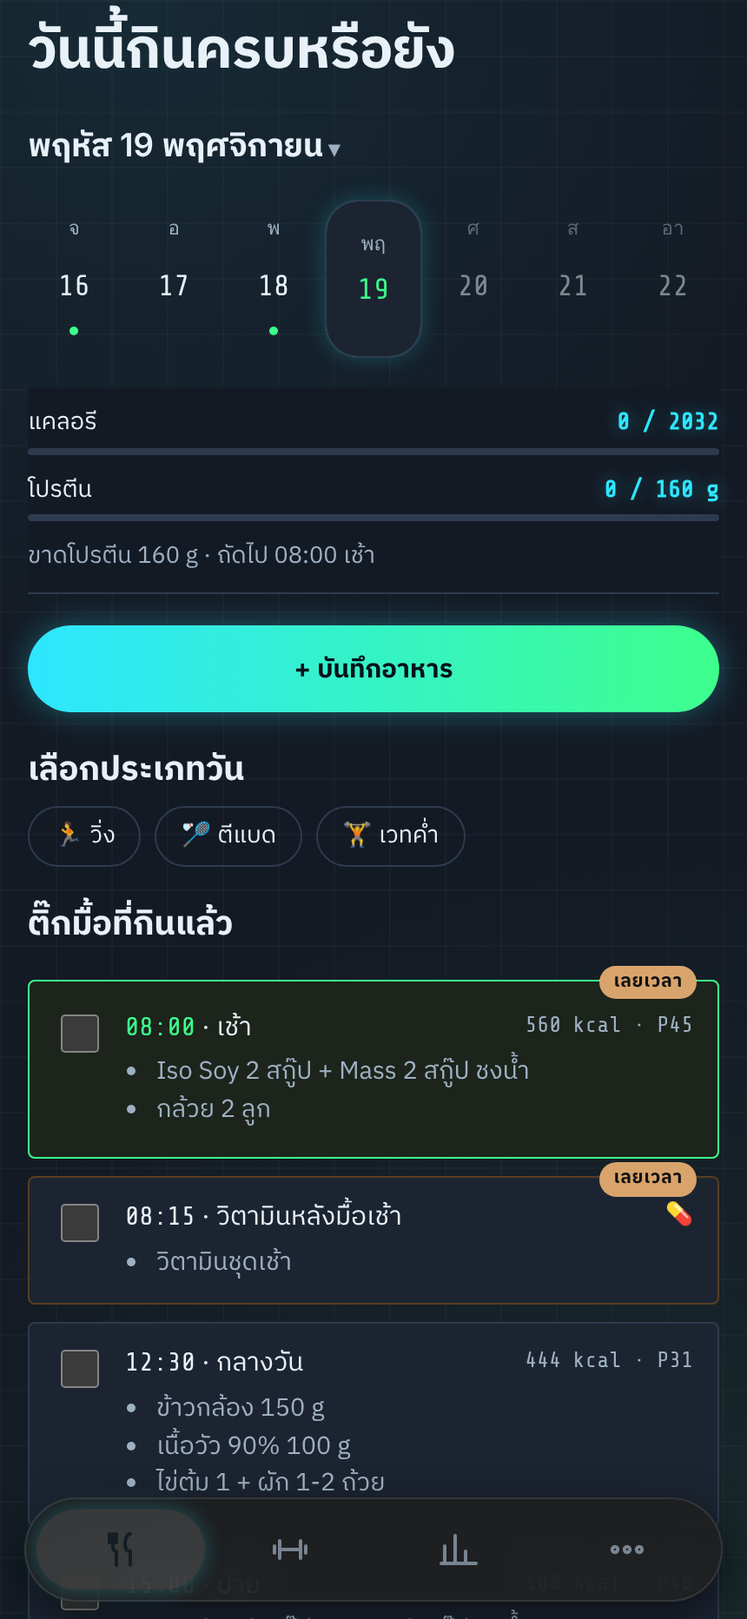
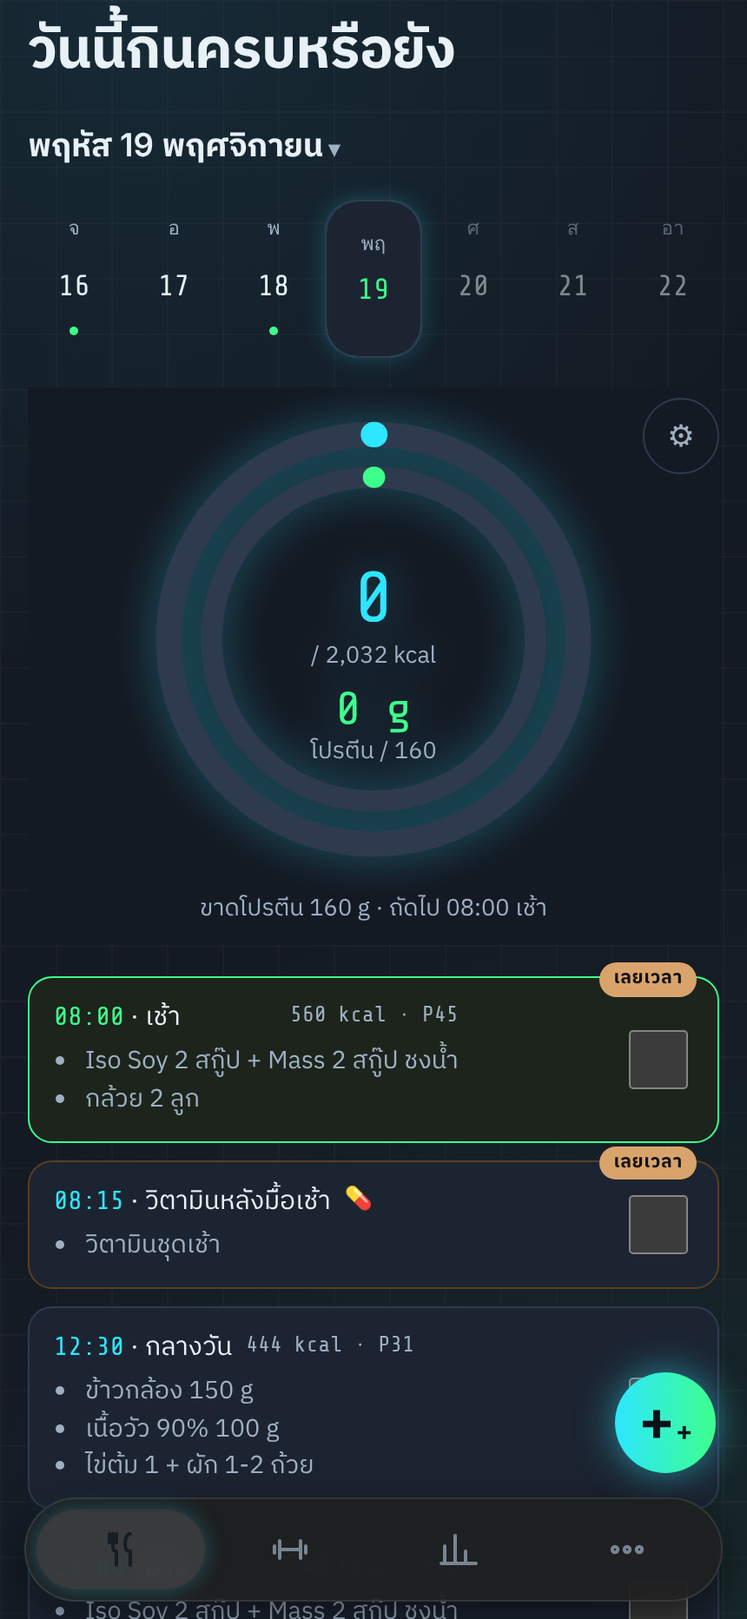
Neon theme + layout: food rings, one-exercise training with rest ring, HUD place cards, big recovery figure
Claude-Session: https://claude.ai/code/session_01TA1QFkMVywvGJMZnY2b9UN

diff --git a/public/js/stats-extra.js b/public/js/stats-extra.js
@@ -18,13 +18,13 @@ function renderVolume(){const box=document.getElementById("vol-card");if(!box)re
   box.innerHTML=`<div class="chips seg">${[["1w","1 สัปดาห์"],["1m","1 เดือน"],["6m","6 เดือน"],["1y","1 ปี"]].map(([k,l])=>`<button class="chip" data-vr="${k}" aria-pressed="${k===volRange}">${t(l)}</button>`).join("")}</div>
     <div class="vol-h"><small>${t("เฉลี่ยต่อวัน")}</small><b>${Math.round(tot/days).toLocaleString()} <small>kg</small></b></div>
     <svg viewBox="0 0 ${W} ${H+18}" width="100%" role="img" aria-label="volume">${b.map((x,i)=>{const h=x.v?Math.max(4,x.v/mx*H):3,X=i*(bw+gap);
-      return `<rect x="${X.toFixed(1)}" y="${(H-h).toFixed(1)}" width="${bw.toFixed(1)}" height="${h.toFixed(1)}" rx="${Math.min(4,bw/2)}" fill="${x.v?"var(--series,#4f93f5)":"var(--line)"}"><title>${Math.round(x.v)} kg</title></rect>${x.lab?`<text x="${(X+bw/2).toFixed(1)}" y="${H+14}" text-anchor="middle" fill="var(--muted)" font-size="10" font-family="var(--f-num)">${x.lab}</text>`:""}`}).join("")}</svg>
+      return `<rect x="${X.toFixed(1)}" y="${(H-h).toFixed(1)}" width="${bw.toFixed(1)}" height="${h.toFixed(1)}" rx="${Math.min(4,bw/2)}" fill="${x.v?"var(--series,#2ee6ff)":"var(--line)"}"><title>${Math.round(x.v)} kg</title></rect>${x.lab?`<text x="${(X+bw/2).toFixed(1)}" y="${H+14}" text-anchor="middle" fill="var(--muted)" font-size="10" font-family="var(--f-num)">${x.lab}</text>`:""}`}).join("")}</svg>
     <div class="row-head vol-f"><span>${t("รวม")}</span><b>${Math.round(tot).toLocaleString()} kg</b></div>`;
   box.querySelectorAll("[data-vr]").forEach(c=>c.addEventListener("click",()=>{volRange=c.dataset.vr;renderVolume()}))}
 function renderMuscleSets(){const box=document.getElementById("mset-card");if(!box)return;const today=ds2d(TODAY),mon=dkey(addD(today,-((today.getDay()+6)%7)));const n={};
   logs.filter(l=>l.date>=mon&&l.date<=TODAY).forEach(l=>Object.entries(l.ex).forEach(([id,s])=>{const g=groupOf(exOf(id,l));n[g]=(n[g]||0)+s.length}));
   box.innerHTML=`<div class="rings">${Object.entries(SET_TARGET).map(([g,tg])=>{const v=n[g]||0,f=Math.min(1,v/tg),r=26,C=2*Math.PI*r;
-    return `<div class="ring"><svg viewBox="0 0 64 64" width="64" height="64"><circle cx="32" cy="32" r="${r}" fill="none" stroke="var(--line)" stroke-width="6"/><circle cx="32" cy="32" r="${r}" fill="none" stroke="${v>=tg?"var(--up)":"var(--series,#4f93f5)"}" stroke-width="6" stroke-linecap="round" stroke-dasharray="${(C*f).toFixed(1)} ${C.toFixed(1)}" transform="rotate(-90 32 32)"/></svg><span class="ring-fig">${bodySVG(GROUP_MUS[g]||[],[],36)}</span><b>${groupName(g)}</b><small>${v} / ${nU(tg,"เซ็ต")}</small></div>`}).join("")}</div>`}
+    return `<div class="ring"><svg viewBox="0 0 64 64" width="64" height="64"><circle cx="32" cy="32" r="${r}" fill="none" stroke="var(--line)" stroke-width="6"/><circle cx="32" cy="32" r="${r}" fill="none" stroke="${v>=tg?"var(--up)":"var(--series,#2ee6ff)"}" stroke-width="6" stroke-linecap="round" stroke-dasharray="${(C*f).toFixed(1)} ${C.toFixed(1)}" transform="rotate(-90 32 32)"/></svg><span class="ring-fig">${bodySVG(GROUP_MUS[g]||[],[],36)}</span><b>${groupName(g)}</b><small>${v} / ${nU(tg,"เซ็ต")}</small></div>`}).join("")}</div>`}
 function renderPRs(){const box=document.getElementById("pr-card");if(!box)return;const e1=s=>Math.max(...s.map(q=>(+q.kg||0)*(1+(+q.reps||0)/30)));
   const cut=dkey(addD(ds2d(TODAY),-30)),rows=[];
   HEAVY.forEach(id=>{const h=logs.filter(l=>l.ex[id]&&l.ex[id].length&&logLoc(l)===curLoc);if(!h.length)return;const recent=h.filter(l=>l.date>=cut),old=h.filter(l=>l.date<cut);
@@ -34,7 +34,7 @@ function renderPRs(){const box=document.getElementById("pr-card");if(!box)return
   box.innerHTML=rows.length?rows.slice(0,5).map(r=>{const x={id:r.id,n:r.n};return `<div class="sx-row"><span class="sx-mini">${bodySVG(...musOf(x),44)}</span><span><b>${esc(r.n)}</b><small>${nU(r.sets,"เซ็ต")}${r.d!=null?` · ${t("เทียบ 30 วันก่อน")} <i class="${Math.round(r.d)>0?"up":Math.round(r.d)<0?"dn":""}">${Math.round(r.d)>0?"▲ ":Math.round(r.d)<0?"▼ ":"= "}${Math.abs(Math.round(r.d))} kg</i>`:""}</small></span>${howBtn(x)}<b class="pr-v">${Math.round(r.now)}<small> kg</small></b></div>`}).join(""):emptyBox("bar","ยังไม่มีข้อมูลการฝึก")}
 let renderBody;renderBody=function(){const box=document.getElementById("body-card");if(!box)return;const L=BODY.slice().sort((a,b)=>a.d.localeCompare(b.d)),last=L[L.length-1],first=L[0];
   let chart="";if(L.length>1){const W=300,H=70,v=L.map(x=>x.kg),lo=Math.min(...v),hi=Math.max(...v),sp=hi-lo||1,X=i=>i/(L.length-1)*W,Y=k=>H-(k-lo)/sp*(H-10)-5;
-    chart=`<svg viewBox="0 0 ${W} ${H}" width="100%" height="${H}"><path d="${L.map((x,i)=>(i?"L":"M")+X(i).toFixed(1)+" "+Y(x.kg).toFixed(1)).join(" ")}" fill="none" stroke="var(--series,#4f93f5)" stroke-width="2.5" stroke-linejoin="round"/>${L.map((x,i)=>`<circle cx="${X(i).toFixed(1)}" cy="${Y(x.kg).toFixed(1)}" r="3.5" fill="var(--series,#4f93f5)"/>`).join("")}</svg>`}
+    chart=`<svg viewBox="0 0 ${W} ${H}" width="100%" height="${H}"><path d="${L.map((x,i)=>(i?"L":"M")+X(i).toFixed(1)+" "+Y(x.kg).toFixed(1)).join(" ")}" fill="none" stroke="var(--series,#2ee6ff)" stroke-width="2.5" stroke-linejoin="round"/>${L.map((x,i)=>`<circle cx="${X(i).toFixed(1)}" cy="${Y(x.kg).toFixed(1)}" r="3.5" fill="var(--series,#2ee6ff)"/>`).join("")}</svg>`}
   box.innerHTML=`<div class="row-head" style="align-items:center"><span class="vol-h"><small>${last?thDate(last.d,{day:"numeric",month:"short"}):t("ยังไม่มีบันทึก")}</small><b>${last?last.kg:"–"} <small>kg</small>${last&&first&&L.length>1?` <i class="${last.kg<=first.kg?"up":"dn"}" style="font-style:normal;font-size:.8rem">${last.kg-first.kg>0?"+":""}${(last.kg-first.kg).toFixed(1)}</i>`:""}</b></span>
     <input id="bw-in" type="number" readonly inputmode="none" data-pad="bw" value="${last?last.kg:""}" aria-label="${t("น้ำหนักตัว")}" hidden><button class="btn sm primary" id="bw-add">+ ${t("บันทึกน้ำหนัก")}</button></div>${chart}`;
   box.querySelector("#bw-add").addEventListener("click",()=>{PAD.bw=PAD.bw||{steps:[.1,.5,1,5],def:70,fix:1};openPad(box.querySelector("#bw-in"))});
@@ -68,7 +68,7 @@ function renderRecovery(){const box=document.getElementById("rec-card");if(!box)
   const lab=m=>{const o=R[m];return !o?"–":o.pct+"%"},sub=m=>{const o=R[m];return !o?t("ยังไม่เคย"):o.days>NEGLECT?nU(o.days,"วันก่อน"):""};
   const due=REC_ORDER.filter(m=>{const s=state(ago(m));return s===0||s===4});
   const tiles=REC_ORDER.map(m=>{const o=R[m],s=state(o),w=!o?0:s===4?100:o.pct;return `<button class="rec-t s${s}" data-m="${m}"><b>${t(MUS_NAME[m])}</b><span class="rec-p">${lab(m)}</span><small class="rec-sub">${sub(m)||"&nbsp;"}</small><i class="rec-bar"><i style="width:${w}%;background:${REC_C[s]}"></i></i></button>`}).join("");
-  box.innerHTML=`<div class="rec-fig">${bodySVG([],[],170,m=>REC_C[state(ago(m))])}</div>
+  box.innerHTML=`<div class="rec-fig">${bodySVG([],[],320,m=>REC_C[state(ago(m))])}</div>
     <div class="rec-grid">${tiles}</div>
     <div class="rec-leg">${[[1,"< 40%"],[2,"กำลังฟื้น"],[3,"พร้อม"],[0,"ยังไม่เคยเล่น"]].map(([k,l])=>`<span><i style="background:${REC_C[k]}"></i>${t(l)}</span>`).join("")}</div>`}
 /* ---------- generic bottom sheet ---------- */
@@ -106,8 +106,8 @@ renderBody=function(){const box=document.getElementById("body-card");if(!box)ret
     const goal=bodyMetric==="kg"&&bodyGoal?`<line x1="${PL}" x2="${W}" y1="${Y(bodyGoal)}" y2="${Y(bodyGoal)}" stroke="var(--up)" stroke-dasharray="4 4"/><text x="${W-2}" y="${Y(bodyGoal)-4}" text-anchor="end" font-size="9" fill="var(--up)">${t("เป้าหมาย")} ${bodyGoal}</text>`:"";
     const path=P.map((q,i)=>(i?"L":"M")+X(q).toFixed(1)+" "+Y(q[bodyMetric]).toFixed(1)).join(" ");
     const area=P.length>1?`<path d="${path} L${X(P[P.length-1]).toFixed(1)} ${H-PB} L${X(P[0]).toFixed(1)} ${H-PB}Z" fill="url(#bg)" />`:"";
-    chart=`<svg viewBox="0 0 ${W} ${H}" width="100%" role="img" aria-label="trend"><defs><linearGradient id="bg" x1="0" x2="0" y1="0" y2="1"><stop offset="0" stop-color="#4f93f5" stop-opacity=".35"/><stop offset="1" stop-color="#4f93f5" stop-opacity="0"/></linearGradient></defs>${ticks}${goal}${area}
-      <path d="${path}" fill="none" stroke="var(--series,#4f93f5)" stroke-width="2.5" stroke-linejoin="round"/>${P.map(q=>`<circle cx="${X(q).toFixed(1)}" cy="${Y(q[bodyMetric]).toFixed(1)}" r="3.5" fill="var(--series,#4f93f5)"><title>${q.d}: ${q[bodyMetric]}</title></circle>`).join("")}
+    chart=`<svg viewBox="0 0 ${W} ${H}" width="100%" role="img" aria-label="trend"><defs><linearGradient id="bg" x1="0" x2="0" y1="0" y2="1"><stop offset="0" stop-color="#2ee6ff" stop-opacity=".35"/><stop offset="1" stop-color="#2ee6ff" stop-opacity="0"/></linearGradient></defs>${ticks}${goal}${area}
+      <path d="${path}" fill="none" stroke="var(--series,#2ee6ff)" stroke-width="2.5" stroke-linejoin="round"/>${P.map(q=>`<circle cx="${X(q).toFixed(1)}" cy="${Y(q[bodyMetric]).toFixed(1)}" r="3.5" fill="var(--series,#2ee6ff)"><title>${q.d}: ${q[bodyMetric]}</title></circle>`).join("")}
       ${(()=>{const lv=P.map(q=>q[bodyMetric]),mx=Math.max(...lv),mn=Math.min(...lv),qm=P.find(q=>q[bodyMetric]===mx),qn=P.find(q=>q[bodyMetric]===mn),ql=P[P.length-1];
         const lab=(q,txt,dy,anc)=>`<text x="${Math.min(W-2,Math.max(PL+2,X(q))).toFixed(1)}" y="${(Y(q[bodyMetric])+dy).toFixed(1)}" text-anchor="${anc}" font-size="10" fill="var(--fg)" font-family="var(--f-num)">${txt}</text>`;
         return `<circle cx="${X(ql).toFixed(1)}" cy="${Y(ql[bodyMetric]).toFixed(1)}" r="6" fill="var(--fg)"/>`+(P.length>2&&qm!==ql?lab(qm,t("สูงสุด")+" "+mx,-8,"start"):"")+(P.length>2&&qn!==ql&&qn!==qm?lab(qn,t("ต่ำสุด")+" "+mn,16,"middle"):"")+`<text x="${(X(ql)-10).toFixed(1)}" y="${(Y(ql[bodyMetric])+18).toFixed(1)}" text-anchor="end" font-size="11" font-weight="600" fill="var(--fg)" font-family="var(--f-num)">${ql[bodyMetric]} ${U}</text>`})()}

diff --git a/public/css/app.css b/public/css/app.css
@@ -125,7 +125,7 @@ details.log summary{cursor:pointer;font-size:.85rem;color:var(--accent)}
 .step-toggle{cursor:pointer}.step-toggle .step-t::after{content:" ▾";color:var(--muted);font-size:.8rem}
 .stepbox.collapsed .step-t::after{content:" ▸"}.stepbox.collapsed>*:not(.step){display:none!important}
 .stepbox.locked{opacity:.4;pointer-events:none}
-#hist-chart,#chart-body{--series:#4f93f5}
+#hist-chart,#chart-body{--series:#2ee6ff}
 .hc-tip{position:absolute;pointer-events:none;background:var(--bg);border:1px solid var(--line);border-radius:8px;padding:6px 10px;display:grid;gap:1px;font-size:.75rem;color:var(--muted);max-width:240px;z-index:2}
 .hc-tip b{font-family:var(--f-num);font-size:.95rem;color:var(--fg)}
 .stats{display:grid;grid-template-columns:repeat(3,1fr);gap:8px}
@@ -361,7 +361,7 @@ i.up{color:var(--up);font-style:normal}i.dn{color:var(--warn);font-style:normal}
 .rm-t{display:grid;grid-template-columns:repeat(4,1fr);gap:6px}.rm-t span{display:grid;background:var(--bg);border-radius:10px;padding:8px;text-align:center;font-family:var(--f-num);font-size:.8rem}.rm-t b{color:var(--muted);font-size:.7rem}
 .btiles{display:grid;grid-template-columns:repeat(3,1fr);gap:8px}
 .bt{display:grid;gap:2px;text-align:left;background:var(--bg);border:1px solid var(--line);border-radius:12px;padding:10px;color:var(--fg);font:inherit;cursor:pointer}
-.bt[aria-pressed="true"]{border-color:var(--series,#4f93f5)}.bt small{color:var(--muted);font-size:.72rem}.bt b{font-family:system-ui,-apple-system,sans-serif;font-size:1.25rem}.bt i{font-style:normal;font-size:.75rem}
+.bt[aria-pressed="true"]{border-color:var(--series,#2ee6ff)}.bt small{color:var(--muted);font-size:.72rem}.bt b{font-family:system-ui,-apple-system,sans-serif;font-size:1.25rem}.bt i{font-style:normal;font-size:.75rem}
 
 .date-tog{cursor:pointer}.date-tog::after{content:" ▾";color:var(--muted);font-size:.8rem}.date-tog[aria-expanded="true"]::after{content:" ▴"}
 .week.month{row-gap:2px}.wk-h{grid-column:1/-1;display:flex;justify-content:space-between;align-items:center;margin:2px 0 6px}.wk-h b{font-family:system-ui,-apple-system,sans-serif;font-weight:700}
@@ -417,7 +417,7 @@ i.up{color:var(--up);font-style:normal}i.dn{color:var(--warn);font-style:normal}
 #food-hist .chips.seg{grid-template-columns:repeat(4,1fr)}
 #food-hist details.log{display:block!important;padding:12px 14px!important}#food-hist details.log[open]>table{margin-top:8px}
 .fh-tg{display:flex;align-items:center;gap:6px;font-size:.72rem;color:var(--muted);justify-content:flex-end}.fh-tg i{width:16px;border-top:2px dashed var(--fg)}
-.fh-tg i{width:10px!important;height:10px;border:0!important;border-radius:3px;margin-left:6px}.fh-tg i.ok{background:var(--up)}.fh-tg i.no{background:var(--series,#4f93f5)}
+.fh-tg i{width:10px!important;height:10px;border:0!important;border-radius:3px;margin-left:6px}.fh-tg i.ok{background:var(--up)}.fh-tg i.no{background:var(--series,#2ee6ff)}
 
 /* Today card */
 .today{display:grid;gap:4px;padding:16px;border-radius:18px;background:linear-gradient(135deg,#232a36,#1a1a19);border:1px solid #2f3b4d}
@@ -630,3 +630,46 @@ h1,.lp-h{font-family:var(--f-display);font-weight:700;letter-spacing:-.01em}
 .crumbs .cr.cur{border-color:var(--cyan);box-shadow:0 0 10px #2ee6ff44}
 .crumbs .cr.cur[data-cr="prog"]{background:var(--grad);color:var(--on-accent)}
 .how-steps li::before{border-color:var(--cyan);color:var(--cyan)}
+/* ===== NEON LAYOUT ===== */
+/* food: ring + gear + FAB */
+.totals{position:relative;top:auto!important;border-bottom:0}
+.totals .bar{display:none}
+#food-ring svg{display:block;width:min(270px,72vw);margin:0 auto;filter:drop-shadow(0 0 12px #2ee6ff55)}
+#food-ring .fr-big{font:34px var(--f-num);fill:var(--cyan)}#food-ring .fr-mid{font:22px var(--f-num);fill:var(--green)}#food-ring .fr-sm{font:11px var(--f-body);fill:var(--muted)}
+#status{text-align:center}
+.day-gear{position:absolute;top:6px;right:0;width:44px;height:44px;border-radius:50%;border:1px solid var(--line);background:none;color:var(--muted);font-size:1.1rem;cursor:pointer}
+.day-gear[aria-expanded="true"]{color:var(--cyan);border-color:var(--cyan)}
+#food-add{position:fixed;right:max(18px,env(safe-area-inset-right,0px));bottom:calc(84px + env(safe-area-inset-bottom,0px));z-index:12;width:58px;height:58px;border-radius:50%;padding:0;font-size:0;box-shadow:0 0 22px #2ee6ff88}
+#food-add::before{content:"+";font-size:2rem;line-height:1}
+#v-food[hidden]~#food-add,body:not(:has(#v-food:not([hidden]))) #food-add{display:none}
+.meal{border-radius:14px;padding:12px 14px!important;align-items:center}
+.meal input[type="checkbox"]{order:2;width:34px;height:34px;flex:none;margin-left:auto}
+.meal .time{font-family:var(--f-num);color:var(--cyan)}
+/* training: one exercise at a time */
+#exs.paged>.ex:not(.pg-on){display:none}
+.wo-pager{display:flex;align-items:center;gap:10px}.wo-pager .btn{min-width:44px;min-height:44px;font-size:1.2rem}
+.wo-pager .pg-mid{flex:1;display:grid;justify-items:center;gap:4px}.wo-pager small{font-family:var(--f-num);color:var(--muted)}
+.pg-dots{display:flex;gap:5px}.pg-dots i{width:8px;height:8px;border-radius:50%;background:var(--line)}.pg-dots i.ok{background:var(--green)}.pg-dots i.cur{background:var(--cyan);box-shadow:0 0 8px var(--cyan)}
+#exs.paged .ex input:not([type="checkbox"]){font-size:1.4rem;min-height:52px;font-family:var(--f-num)}
+#exs.paged .ex input[type="checkbox"]{width:40px;height:40px}
+.wo-clock{font-size:1.6rem}
+/* rest: big ring */
+.rest{background:#141a24f2;border-top:1px solid var(--cyan);box-shadow:0 -6px 24px #2ee6ff22}
+.rest-dial{position:relative;width:190px;margin:0 auto}.rest-ring{display:block;width:190px;height:190px;filter:drop-shadow(0 0 10px #3dff8c66)}
+.rest-dial .rest-time{position:absolute;inset:0;display:grid;place-items:center;font-size:2.6rem;color:var(--cyan);text-shadow:0 0 12px #2ee6ff88}
+.rest .track{display:none}
+/* places / day choice: HUD cards */
+.lp-card,.dp-card{min-height:118px;clip-path:polygon(14px 0,calc(100% - 14px) 0,100% 14px,100% calc(100% - 14px),calc(100% - 14px) 100%,14px 100%,0 calc(100% - 14px),0 14px);border-radius:0!important}
+.lp-card .lp-ic{font-size:3rem;width:64px;filter:drop-shadow(0 0 10px #2ee6ff88)}
+.locpick .lp-card:nth-of-type(even){flex-direction:row-reverse}
+.locpick .lp-card:nth-of-type(3n+2){background:linear-gradient(var(--surface),var(--surface)) padding-box,linear-gradient(135deg,#3dff8c,#1c2431 70%) border-box}
+.lp-h{text-align:center;padding:14px;border:1px solid var(--cyan);clip-path:polygon(14px 0,calc(100% - 14px) 0,100% 14px,100% calc(100% - 14px),calc(100% - 14px) 100%,14px 100%,0 calc(100% - 14px),0 14px);box-shadow:inset 0 0 18px #2ee6ff22}
+.dp-ic{filter:drop-shadow(0 0 10px #2ee6ff88)}
+/* stats: big glowing figure, % chips row */
+#rec-card .rec-fig svg,#rec-card .rec-fig img{width:100%!important;max-width:360px;height:auto;filter:drop-shadow(0 0 10px #2ee6ff44)}
+#rec-card .rec-fig{background:radial-gradient(circle,#2ee6ff18,transparent 65%);border-radius:14px;padding:8px 0}
+#rec-card .rec-grid{display:flex!important;overflow-x:auto;gap:8px;padding-bottom:6px;scroll-snap-type:x mandatory}
+#rec-card .rec-grid .rec-t{flex:0 0 108px;scroll-snap-align:start}
+#food-add span{display:none}
+.lp-card{position:relative}.lp-card .lp-more{position:absolute;top:10px;right:12px;margin:0}
+.locpick .lp-card:nth-of-type(even) .lp-more{right:auto;left:12px}

diff --git a/public/index.html b/public/index.html
@@ -8,11 +8,11 @@
 <meta name="apple-mobile-web-app-status-bar-style" content="black-translucent">
 <meta name="apple-mobile-web-app-title" content="Fuel & Lift">
 <link rel="manifest" href="/manifest.webmanifest">
-<link rel="apple-touch-icon" href="/apple-touch-icon.png?v=071900">
+<link rel="apple-touch-icon" href="/apple-touch-icon.png?v=072100">
 <title>Fuel &amp; Lift Log</title>
 <link rel="stylesheet" href="https://fonts.googleapis.com/css2?family=IBM+Plex+Sans+Thai:wght@400;500;700&family=IBM+Plex+Mono:wght@400;500&family=Noto+Serif+Thai:wght@400;500&family=Share+Tech+Mono&family=Orbitron:wght@500;700&display=swap">
 <style>:root{padding-top:env(safe-area-inset-top,0px);padding-bottom:env(safe-area-inset-bottom,0px)}*{-webkit-tap-highlight-color:transparent}body{margin:0;font-size:14px;font-family:system-ui,sans-serif}img{max-width:100%}[hidden]{display:none!important}</style>
-<link rel="stylesheet" href="/css/app.css?v=071900">
+<link rel="stylesheet" href="/css/app.css?v=072100">
 </head><body>
 
 <div class="wrap">
@@ -32,12 +32,14 @@
   <!-- FOOD -->
   <div id="v-food" class="stack" style="gap:18px">
     <section class="totals" aria-label="Totals">
+      <button class="day-gear" id="day-gear" aria-label="ประเภทวัน" aria-expanded="false">⚙</button>
+      <div id="food-ring"></div>
       <div class="bar"><div class="bar-top"><span data-i="แคลอรี">แคลอรี</span><b id="kcal-t"></b></div><div class="track"><div class="fill" id="kcal-f"></div></div></div>
       <div class="bar"><div class="bar-top"><span data-i="โปรตีน">โปรตีน</span><b id="p-t"></b></div><div class="track"><div class="fill" id="p-f"></div></div></div>
       <p class="note" id="status"></p>
     </section>
     <button class="btn primary" id="food-add">+ <span data-i="บันทึกอาหาร">บันทึกอาหาร</span></button>
-    <section>
+    <section id="day-type" hidden>
       <div class="step" style="margin-bottom:8px"><span class="num">2</span><span class="step-t" data-i="เลือกประเภทวัน">เลือกประเภทวัน</span></div>
       <div class="chips">
         <button class="chip" id="t-run" data-k="run" aria-pressed="false" data-i="วิ่ง" data-pre="🏃 ">🏃 วิ่ง</button>
@@ -45,7 +47,7 @@
         <button class="chip" id="t-late" data-k="late" aria-pressed="false" data-i="เวทค่ำ" data-pre="🏋 ">🏋 เวทค่ำ</button>
       </div>
     </section>
-    <div class="step"><span class="num">3</span><span class="step-t" data-i="ติ๊กมื้อที่กินแล้ว">ติ๊กมื้อที่กินแล้ว</span></div>
+
     <section class="stack" id="meals"></section>
     <button class="btn ghost" id="reset" style="align-self:start" data-i="ล้างวันนี้">ล้างวันนี้</button>
   </div>
@@ -230,33 +232,34 @@
 <div class="rest" id="rest" hidden role="timer" aria-live="polite">
   <div class="rest-in">
     <div class="rest-top"><div><div class="label" style="margin:0" data-i="พัก">พัก</div><div class="rest-time" id="rest-time">1:30</div></div><canvas id="rest-cv" width="64" height="64" style="width:64px;height:64px"></canvas><div class="rest-next" id="rest-next"></div></div>
+    <svg class="rest-ring" viewBox="0 0 220 220" aria-hidden="true"><defs><linearGradient id="rg-g"><stop offset="0" stop-color="#2ee6ff"/><stop offset="1" stop-color="#3dff8c"/></linearGradient></defs><circle cx="110" cy="110" r="90" fill="none" stroke="var(--line)" stroke-width="10"/><circle id="rest-ring" cx="110" cy="110" r="90" fill="none" stroke="url(#rg-g)" stroke-width="10" stroke-linecap="round" stroke-dasharray="565" stroke-dashoffset="0" transform="rotate(-90 110 110)"/></svg>
     <div class="track"><div class="fill" id="rest-fill"></div></div>
     <div class="actions"><button class="btn sm" id="rest-minus">−15s</button><button class="btn sm" id="rest-plus">+15s</button><button class="btn sm primary" id="rest-skip" data-i="พร้อม">พร้อม</button></div>
   </div>
 </div>
 
-<script src="/js/core.js?v=071900"></script>
-<script src="/js/food.js?v=071900"></script>
-<script src="/js/locations.js?v=071900"></script>
-<script src="/js/programs.js?v=071900"></script>
-<script src="/js/run.js?v=071900"></script>
-<script src="/js/workout.js?v=071900"></script>
-<script src="/js/exercise-edit.js?v=071900"></script>
-<script src="/js/exercise-library.js?v=071900"></script>
-<script src="/js/program-manager.js?v=071900"></script>
-<script src="/js/hero.js?v=071900"></script>
-<script src="/js/rest-timer.js?v=071900"></script>
-<script src="/js/auth.js?v=071900"></script>
-<script src="/js/push.js?v=071900"></script>
-<script src="/js/data-io.js?v=071900"></script>
-<script src="/js/sync.js?v=071900"></script>
-<script src="/js/muscle-map.js?v=071900"></script>
-<script src="/js/progress.js?v=071900"></script>
-<script src="/js/history-chart.js?v=071900"></script>
-<script src="/js/stats-extra.js?v=071900"></script>
-<script src="/js/share-card.js?v=071900"></script>
-<script src="/js/number-pad.js?v=071900"></script>
-<script src="/js/refresh.js?v=071900"></script>
-<script src="/js/app.js?v=071900"></script>
+<script src="/js/core.js?v=072100"></script>
+<script src="/js/food.js?v=072100"></script>
+<script src="/js/locations.js?v=072100"></script>
+<script src="/js/programs.js?v=072100"></script>
+<script src="/js/run.js?v=072100"></script>
+<script src="/js/workout.js?v=072100"></script>
+<script src="/js/exercise-edit.js?v=072100"></script>
+<script src="/js/exercise-library.js?v=072100"></script>
+<script src="/js/program-manager.js?v=072100"></script>
+<script src="/js/hero.js?v=072100"></script>
+<script src="/js/rest-timer.js?v=072100"></script>
+<script src="/js/auth.js?v=072100"></script>
+<script src="/js/push.js?v=072100"></script>
+<script src="/js/data-io.js?v=072100"></script>
+<script src="/js/sync.js?v=072100"></script>
+<script src="/js/muscle-map.js?v=072100"></script>
+<script src="/js/progress.js?v=072100"></script>
+<script src="/js/history-chart.js?v=072100"></script>
+<script src="/js/stats-extra.js?v=072100"></script>
+<script src="/js/share-card.js?v=072100"></script>
+<script src="/js/number-pad.js?v=072100"></script>
+<script src="/js/refresh.js?v=072100"></script>
+<script src="/js/app.js?v=072100"></script>
 
 </body></html>

diff --git a/public/js/food.js b/public/js/food.js
@@ -37,7 +37,7 @@ function renderFoodHist(){
   const card=document.createElement("div");card.className="card stack";card.style.gap="8px";
   card.innerHTML=`<div class="chips seg">${[["p","โปรตีน"],["k","แคลอรี"]].map(([k,l])=>`<button class="chip" data-fm="${k}" aria-pressed="${fhMetric===k}">${t(l)}</button>`).join("")}${[[7,"1 สัปดาห์"],[30,"1 เดือน"]].map(([k,l])=>`<button class="chip" data-fr="${k}" aria-pressed="${fhRange===k}">${t(l)}</button>`).join("")}</div>
     <div class="row-head"><span class="vol-h" style="margin:0"><small>${t("เฉลี่ยต่อวัน")}</small><b>${avg.toLocaleString()} <small>${fhMetric==="p"?"g":"kcal"}</small></b></span><span class="vol-h" style="margin:0;text-align:right"><small>${t("ถึงเป้า")}</small><b>${hit}<small> / ${n}</small></b></span></div>
-    <div class="fh-tg"><i class="ok"></i>${t("ถึงเป้า")} ≥ ${tg} ${fhMetric==="p"?"g":"kcal"}<i class="no"></i>${t("ยังไม่ถึง")}</div><svg viewBox="0 0 ${W} ${H+16}" width="100%">${vals.map((v,i)=>{const X=i*(bw+gap),h=v?Math.max(3,H-Y(v)):3;return `<rect x="${X.toFixed(1)}" y="${(H-h).toFixed(1)}" width="${bw.toFixed(1)}" height="${h.toFixed(1)}" rx="${Math.min(4,bw/2)}" fill="${!v?"var(--line)":v>=tg?"var(--up)":"var(--series,#4f93f5)"}"><title>${days7[i]}: ${v}</title></rect>${n<=7||i%7===n%7-1?`<text x="${(X+bw/2).toFixed(1)}" y="${H+12}" text-anchor="middle" font-size="9" fill="var(--muted)" font-family="var(--f-num)">${n<=7?new Date(days7[i]+"T12:00:00").toLocaleDateString(LOC(),{weekday:"narrow"}):new Date(days7[i]+"T12:00:00").getDate()}</text>`:""}`}).join("")}
+    <div class="fh-tg"><i class="ok"></i>${t("ถึงเป้า")} ≥ ${tg} ${fhMetric==="p"?"g":"kcal"}<i class="no"></i>${t("ยังไม่ถึง")}</div><svg viewBox="0 0 ${W} ${H+16}" width="100%">${vals.map((v,i)=>{const X=i*(bw+gap),h=v?Math.max(3,H-Y(v)):3;return `<rect x="${X.toFixed(1)}" y="${(H-h).toFixed(1)}" width="${bw.toFixed(1)}" height="${h.toFixed(1)}" rx="${Math.min(4,bw/2)}" fill="${!v?"var(--line)":v>=tg?"var(--up)":"var(--series,#2ee6ff)"}"><title>${days7[i]}: ${v}</title></rect>${n<=7||i%7===n%7-1?`<text x="${(X+bw/2).toFixed(1)}" y="${H+12}" text-anchor="middle" font-size="9" fill="var(--muted)" font-family="var(--f-num)">${n<=7?new Date(days7[i]+"T12:00:00").toLocaleDateString(LOC(),{weekday:"narrow"}):new Date(days7[i]+"T12:00:00").getDate()}</text>`:""}`}).join("")}
       </svg>`;
   card.querySelectorAll("[data-fm]").forEach(b=>b.addEventListener("click",()=>{fhMetric=b.dataset.fm;renderFoodHist()}));
   card.querySelectorAll("[data-fr]").forEach(b=>b.addEventListener("click",()=>{fhRange=+b.dataset.fr;renderFoodHist()}));
@@ -72,7 +72,7 @@ function renderFood(){renderFoodHist();
   });
   const sn=logOf(DAY).filter(x=>!meals.some(m=>m.id===x.slot));if(sn.length){const h=document.createElement("div");h.className="label";h.style.margin="6px 0 -6px";h.textContent=t("ของว่าง");box.appendChild(h);box.appendChild(logRows(sn))}
   const xs0=logSum(DAY);let k=xs0.k,p=xs0.p,kt=0;meals.forEach(m=>{kt+=m.k;if(fs().done[m.id]){k+=m.k;p+=m.p}});
-  document.getElementById("kcal-t").textContent=`${k} / ${kt}`;
+  document.getElementById("kcal-t").textContent=`${k} / ${kt}`;drawFoodRing(k,kt,p);
   document.getElementById("p-t").textContent=`${p} / ${P_TARGET} g`;
   document.getElementById("kcal-f").style.width=Math.min(100,k/kt*100)+"%";
   document.getElementById("p-f").style.width=Math.min(100,p/P_TARGET*100)+"%";
@@ -120,3 +120,11 @@ function openFoodLog(id){const L=(fs().log=fs().log||[]),cur0=id?L.find(x=>x.id=
       save("mealcheck",food);closeGen();renderFood();toast(`${n} ✓`)});
     const d=$("#fl-del");if(d)d.addEventListener("click",()=>{if(!d.dataset.sure){d.dataset.sure=1;d.textContent=t("ลบ")+"?";return}fs().log=L.filter(q=>q.id!==id);save("mealcheck",food);closeGen();renderFood()})})}
 document.getElementById("food-add")?.addEventListener("click",()=>openFoodLog(null));
+
+/* ---------- neon ring: kcal (outer, cyan) + protein (inner, green) ---------- */
+function drawFoodRing(k,kt,p){const el=document.getElementById("food-ring");if(!el)return;
+  const arc=(r,f,c,w)=>{const C=2*Math.PI*r;return `<circle cx="110" cy="110" r="${r}" fill="none" stroke="var(--line)" stroke-width="${w}"/><circle cx="110" cy="110" r="${r}" fill="none" stroke="${c}" stroke-width="${w}" stroke-linecap="round" stroke-dasharray="${Math.max(.001,Math.min(1,f))*C} ${C}" transform="rotate(-90 110 110)"/>`};
+  el.innerHTML=`<svg viewBox="0 0 220 220" role="img" aria-label="kcal ${k}/${kt}, protein ${p}/${P_TARGET}">${arc(96,k/kt,"var(--cyan,#2ee6ff)",12)}${arc(76,p/P_TARGET,"var(--green,#3dff8c)",10)}
+    <text x="110" y="102" text-anchor="middle" class="fr-big">${k.toLocaleString()}</text><text x="110" y="121" text-anchor="middle" class="fr-sm">/ ${kt.toLocaleString()} kcal</text>
+    <text x="110" y="150" text-anchor="middle" class="fr-mid">${p} g</text><text x="110" y="166" text-anchor="middle" class="fr-sm">${t("โปรตีน")} / ${P_TARGET}</text></svg>`}
+document.getElementById("day-gear")?.addEventListener("click",ev=>{const s=document.getElementById("day-type");s.hidden=!s.hidden;ev.currentTarget.setAttribute("aria-expanded",!s.hidden)});

diff --git a/public/js/workout.js b/public/js/workout.js
@@ -139,7 +139,7 @@ function renderGym(){setTimeout(()=>{try{renderToday()}catch(e){console.error(e)
   document.getElementById("sn-1").classList.add("done");
   const sb=document.getElementById("start-w"),row=document.getElementById("start-row");row.hidden=picked||editing||!chosen||!PROGS[cur];if(!row.hidden)sb.textContent=`▶ ${t("เริ่มออก")} · ${PROGS[cur].name}`;
   document.getElementById("wo-add").hidden=!picked||editing;document.getElementById("edit-mode").hidden=cur==="free";const t3=document.querySelector("#step3 .step-t");if(t3)t3.textContent=PROGS[cur]&&picked?`${PROGS[cur].name} · ${t("กำลังเล่น")}`:t("กรอกน้ำหนัก");
-  renderProgs();renderEx();renderSessions();document.getElementById("step4").hidden=editing||!picked;updWoBar();try{renderLocPick()}catch(e){console.error(e)}}
+  renderProgs();renderEx();applyPager();renderSessions();document.getElementById("step4").hidden=editing||!picked;updWoBar();try{renderLocPick()}catch(e){console.error(e)}}
 document.getElementById("edit-w").addEventListener("click",()=>{if(!PROGS[cur])return;pmOnly=cur;pmFromList=false;renderPM();document.getElementById("pm-modal").hidden=false;window.scrollTo(0,0)});
 document.getElementById("start-w").addEventListener("click",()=>{if(!PROGS[cur])return;draft.prog=cur;draft.started=1;draft.day=DAY;draft.loc=curLoc;draft.t0=Date.now();picked=true;chosen=false;save("gymdraft",draft);renderGym();
   setTimeout(()=>document.getElementById("step3").scrollIntoView({behavior:"smooth",block:"start"}),50)});
@@ -162,3 +162,17 @@ document.getElementById("wo-add").addEventListener("click",()=>openLib({skip:new
 function startEmpty(){PROGS.free={name:t("ออกแบบอิสระ"),sub:"",ex:[]};cur="free";draft={prog:"free",loc:curLoc,ex:{},extra:[],started:1,day:DAY,t0:Date.now()};picked=true;chosen=false;
   save("gymdraft",draft);renderGym();setTimeout(()=>document.getElementById("wo-add").click(),80)}
 document.getElementById("empty-w").addEventListener("click",startEmpty);
+
+/* ---------- one exercise at a time while training: ‹ 2/7 name › pager + swipe ---------- */
+let woIdx=0;
+function applyPager(){const box=document.getElementById("exs");if(!box)return;const cards=[...box.querySelectorAll(":scope>.ex")];
+  box.querySelector(".wo-pager")?.remove();const on=picked&&!editing&&cards.length>1;box.classList.toggle("paged",on);
+  cards.forEach(c=>c.classList.remove("pg-on"));if(!on)return;
+  woIdx=Math.max(0,Math.min(cards.length-1,woIdx));cards[woIdx].classList.add("pg-on");
+  const ex=sessEx(),e=ex[woIdx]||{},done=r=>(draft.ex[r.id]||[]).every(x=>x.ok);
+  const nav=document.createElement("div");nav.className="wo-pager";
+  nav.innerHTML=`<button class="btn sm" data-pg="-1" ${woIdx?"":"disabled"} aria-label="prev">‹</button><span class="pg-mid"><small>${woIdx+1}/${cards.length}</small><span class="pg-dots">${ex.map((x,i)=>`<i class="${i===woIdx?"cur":done(x)?"ok":""}"></i>`).join("")}</span></span><button class="btn sm" data-pg="1" ${woIdx<cards.length-1?"":"disabled"} aria-label="next">›</button>`;
+  cards[0].before(nav);nav.querySelectorAll("[data-pg]").forEach(b=>b.addEventListener("click",()=>goEx(woIdx+ +b.dataset.pg)))}
+function goEx(i){woIdx=i;applyPager();const n=document.querySelector("#exs .wo-pager");if(n)n.scrollIntoView({block:"start",behavior:"smooth"})}
+(()=>{const box=document.getElementById("exs");let x0=null,y0=0;box.addEventListener("touchstart",e=>{if(!box.classList.contains("paged")||e.target.closest("input,textarea"))return;x0=e.touches[0].clientX;y0=e.touches[0].clientY},{passive:true});
+  box.addEventListener("touchend",e=>{if(x0===null)return;const dx=e.changedTouches[0].clientX-x0,dy=e.changedTouches[0].clientY-y0;x0=null;if(Math.abs(dx)>70&&Math.abs(dx)>Math.abs(dy)*1.5)goEx(woIdx+(dx<0?1:-1))},{passive:true})})();

diff --git a/public/js/rest-timer.js b/public/js/rest-timer.js
@@ -9,7 +9,7 @@ function startRest(e,i,rows){
   const ex=sessEx();const k=ex.indexOf(e);
   let next;
   if(i+1<rows.length)next=`<b>${e.n}</b> ${t("เซ็ต")} ${i+2}/${rows.length}${rows[i+1].kg!==""?` · ${toDisp(rows[i+1].kg,e.u)} ${e.u||"kg"}`:""}`;
-  else if(ex[k+1])next=`${t("ท่าถัดไป")} <b>${ex[k+1].n}</b>`;
+  else if(ex[k+1]){next=`${t("ท่าถัดไป")} <b>${ex[k+1].n}</b>`;if(typeof goEx==="function"&&woIdx===k)setTimeout(()=>goEx(k+1),400)}
   else next=`<b>${t("ครบทุกท่าแล้ว")}</b>`;
   document.getElementById("rest-next").innerHTML=next;
   rt={end:Date.now()+secs*1000,total:secs,iv:rt.iv,beeped:false};
@@ -18,10 +18,12 @@ function startRest(e,i,rows){
 }
 function tick(){const left=(rt.end-Date.now())/1000;const el=document.getElementById("rest-time");
   el.textContent=left>0?fmt(left):t("ไปต่อ!");el.classList.toggle("done",left<=0);
-  document.getElementById("rest-fill").style.width=Math.max(0,Math.min(100,(1-left/rt.total)*100))+"%";
+  const f=Math.max(0,Math.min(1,left/rt.total));document.getElementById("rest-fill").style.width=(1-f)*100+"%";const rg=document.getElementById("rest-ring");if(rg)rg.style.strokeDashoffset=String(565*(1-f));
   if(left<=0&&!rt.beeped){rt.beeped=true;beep()}
   if(left<-20)stopRest()}
 function stopRest(){clearInterval(rt.iv);document.getElementById("rest").hidden=true;document.querySelector(".wrap").classList.remove("has-rest")}
 document.getElementById("rest-minus").addEventListener("click",()=>{rt.end-=15000;rt.total=Math.max(15,rt.total-15);tick()});
 document.getElementById("rest-plus").addEventListener("click",()=>{rt.end+=15000;rt.total+=15;rt.beeped=false;tick()});
 document.getElementById("rest-skip").addEventListener("click",stopRest);
+// neon dial: the countdown sits inside the ring
+(()=>{const ring=document.querySelector("#rest .rest-ring"),tm=document.getElementById("rest-time");if(!ring||!tm)return;const d=document.createElement("div");d.className="rest-dial";ring.before(d);d.appendChild(ring);d.appendChild(tm)})();

diff --git a/docs/work/2026-11-20-neon-theme/plan.md b/docs/work/2026-11-20-neon-theme/plan.md
@@ -1,0 +1,6 @@
+# Plan
+- app.css: ธีมนีออน (token, การ์ดขอบไล่สี, ปุ่มไล่สี+glow, ตัวเลข Share Tech Mono) + เลย์เอาต์ (วงแหวนอาหาร, FAB, ทีละท่า, วงแหวนพัก, การ์ด HUD, รูปกล้ามใหญ่ + ชิป % เลื่อนแนวนอน)
+- food.js: drawFoodRing, ปุ่ม ⚙ ซ่อน/แสดงประเภทวัน
+- workout.js: applyPager/goEx (‹ › + จุด + ปัด), ไปท่าถัดไปเองเมื่อจบเซ็ตสุดท้าย
+- rest-timer.js: วงแหวนนับถอยหลัง
+- index.html: Google Fonts (Share Tech Mono, Orbitron), food-ring, rest ring, bump ?v=
